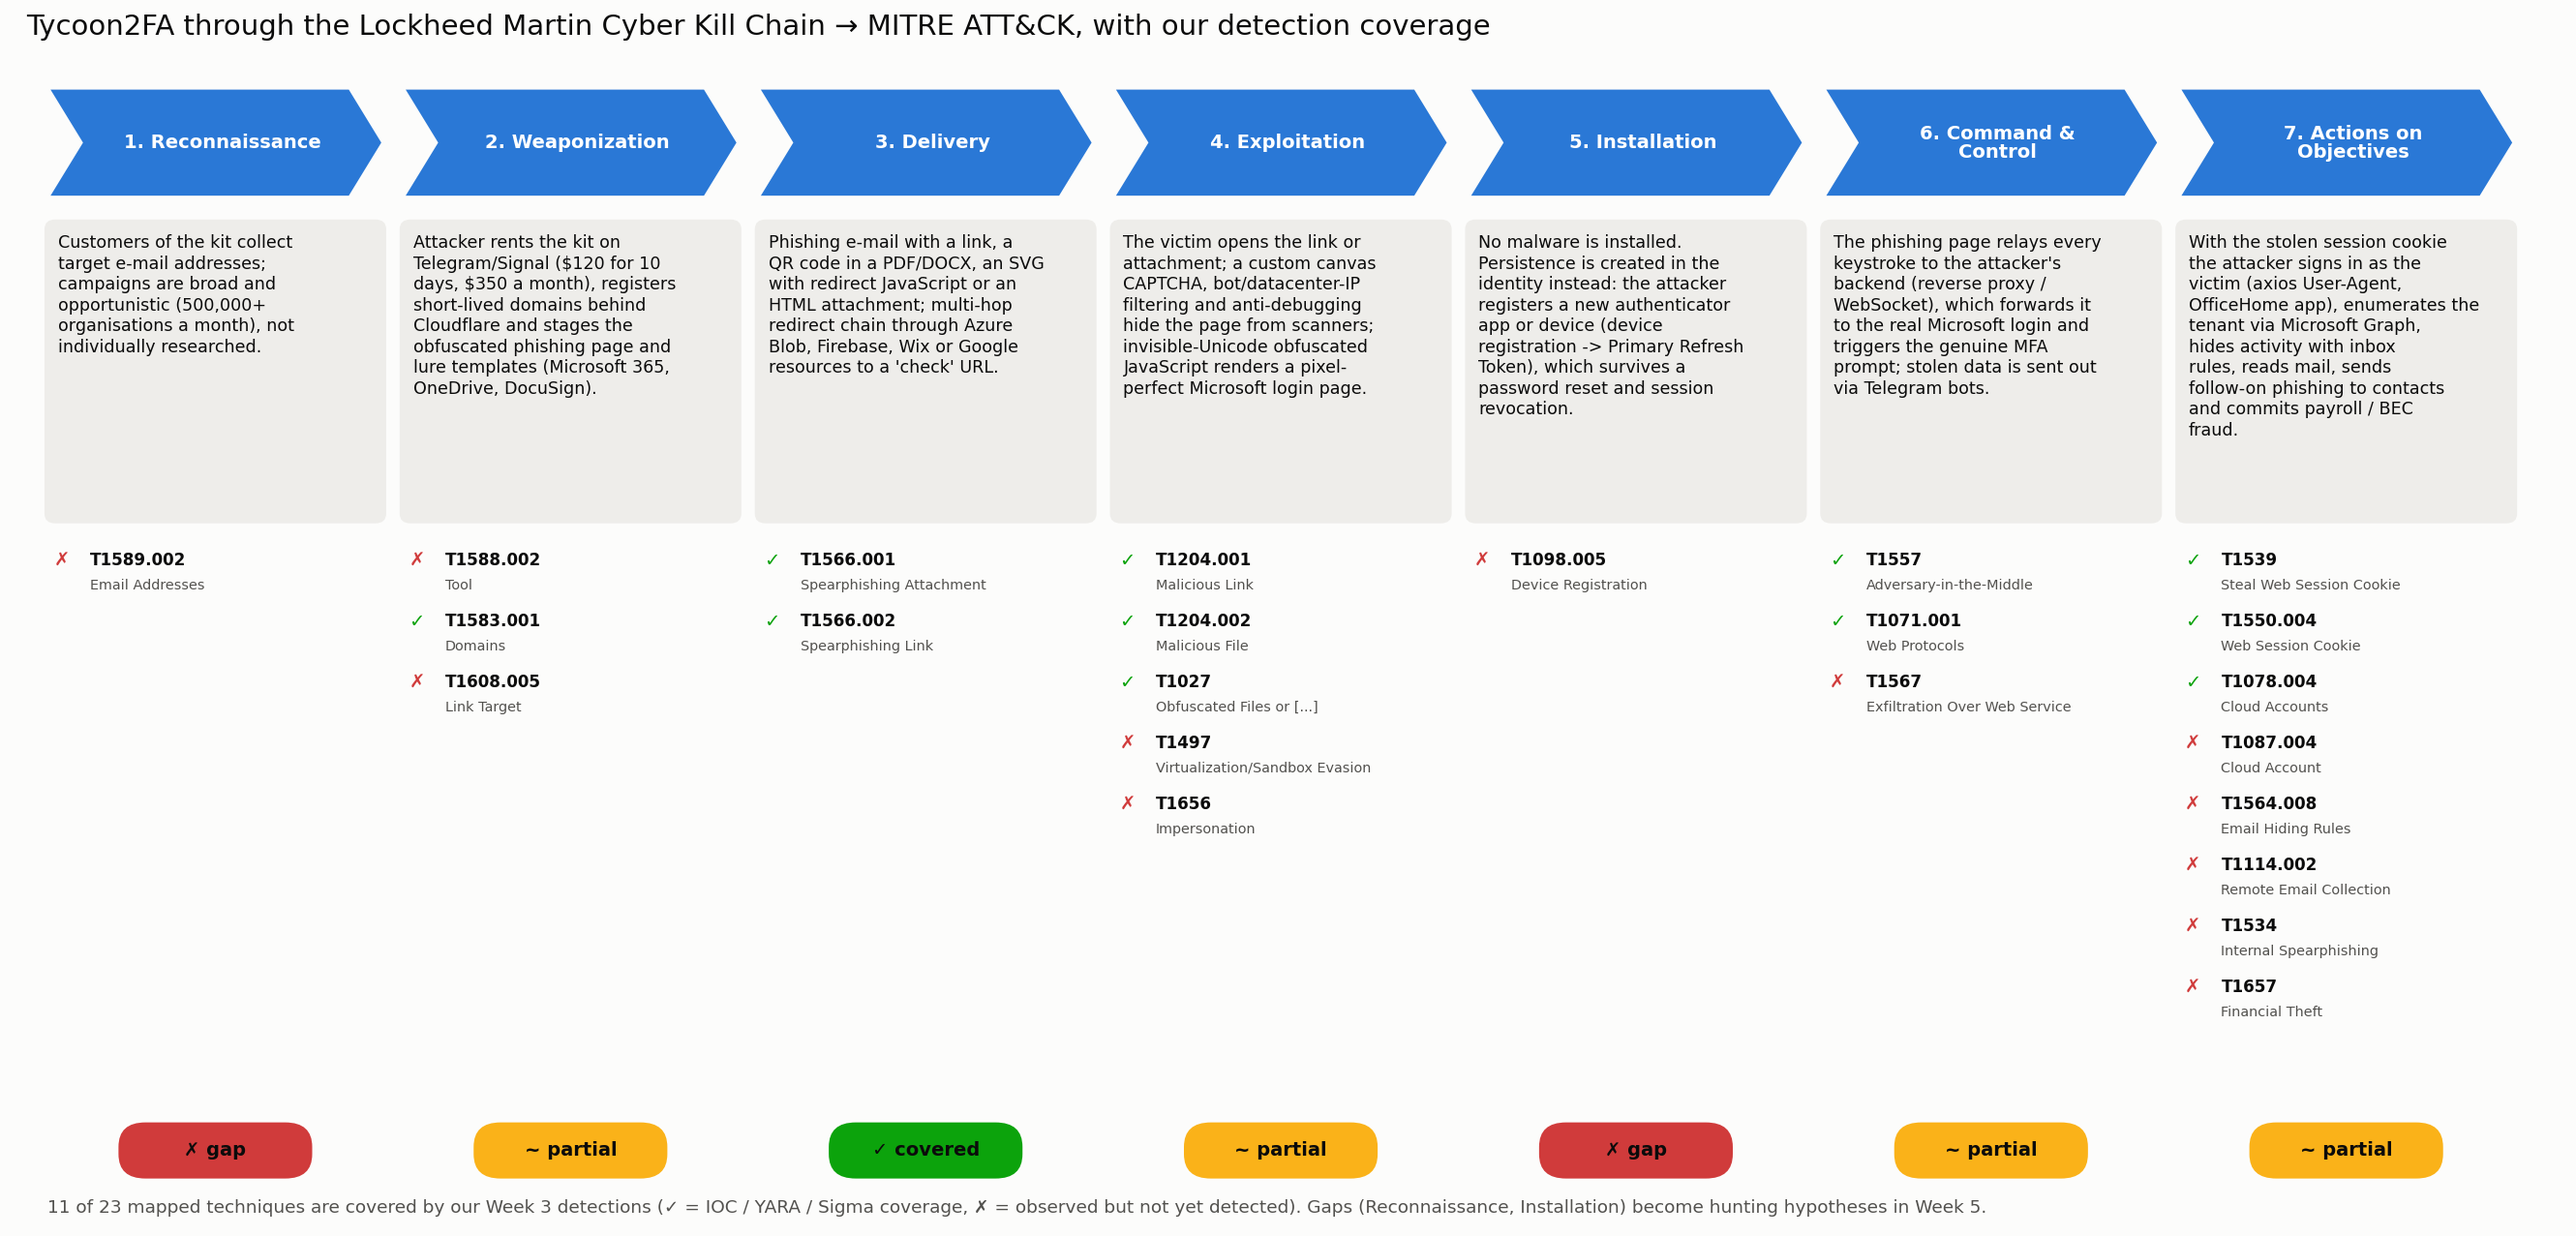
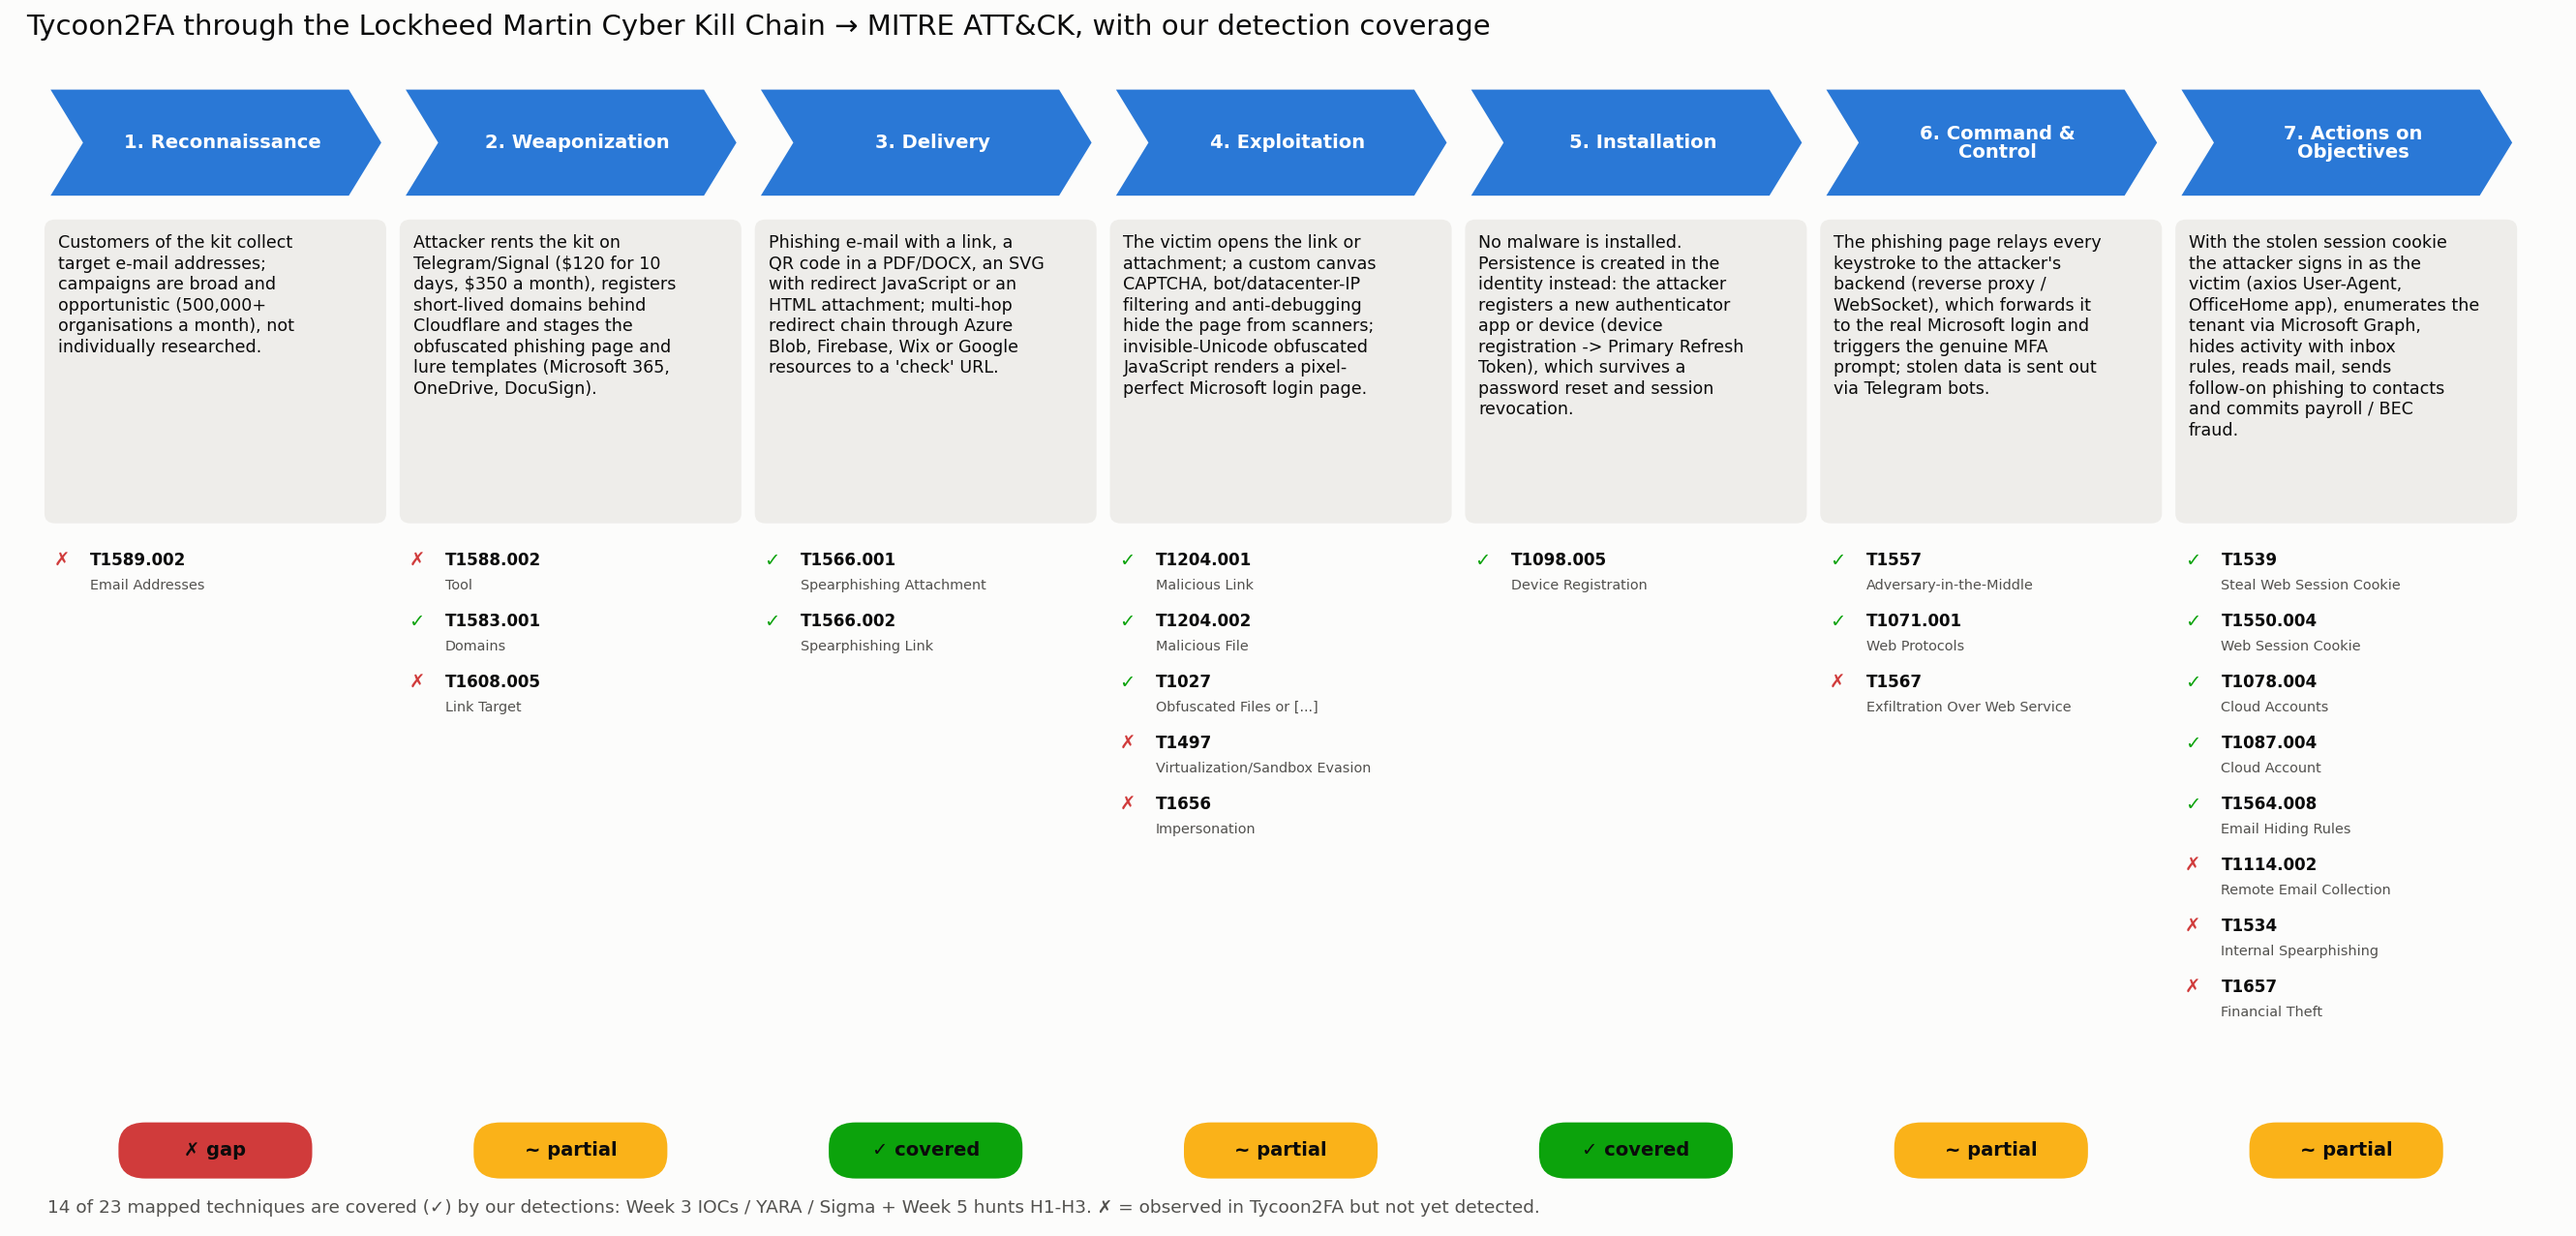
Add files via upload

diff --git a/killchain/build_killchain.py b/killchain/build_killchain.py
@@ -45,7 +45,7 @@ layer = {
     "versions": {"navigator": "5.3.2", "layer": "4.5"},
     "domain": "enterprise-attack",
     "description": "Techniques observed in Tycoon2FA campaigns (Microsoft, Elastic, Sekoia, Trustwave, eSentire). "
-                   "Green = covered by our Week 3 detections (IOCs, YARA, Sigma); red = observed but not yet covered.",
+                   "Green = covered by our detections (Week 3 IOCs, YARA, Sigma + Week 5 hunts); red = observed but not yet covered.",
     "techniques": techniques,
     "gradient": {"colors": ["#f4a3a3", "#7fd17f"], "minValue": 1, "maxValue": 2},
     "legendItems": [{"label": "Observed, not covered", "color": "#f4a3a3"},
@@ -115,9 +115,8 @@ for i, st in enumerate(data["stages"]):
                                 facecolor=col, edgecolor="none"))
     ax.text(x + w / 2, 0.59, label, ha="center", va="center", fontsize=10, color=INK, weight="bold")
 
-ax.text(0.25, 0.05, f"{n_cov} of {n_all} mapped techniques are covered by our Week 3 detections "
-        "(✓ = IOC / YARA / Sigma coverage, ✗ = observed but not yet detected). "
-        "Gaps (Reconnaissance, Installation) become hunting hypotheses in Week 5.",
+ax.text(0.25, 0.05, f"{n_cov} of {n_all} mapped techniques are covered (✓) by our detections: Week 3 IOCs / YARA / Sigma "
+        "+ Week 5 hunts H1-H3. ✗ = observed in Tycoon2FA but not yet detected.",
         fontsize=9.5, color=INK2, va="bottom")
 fig.savefig(HERE / "kill_chain_diagram.png", dpi=140, facecolor=SURF, bbox_inches="tight")
 print("saved kill_chain_diagram.png, tycoon2fa_attack_layer.json, coverage.csv")
